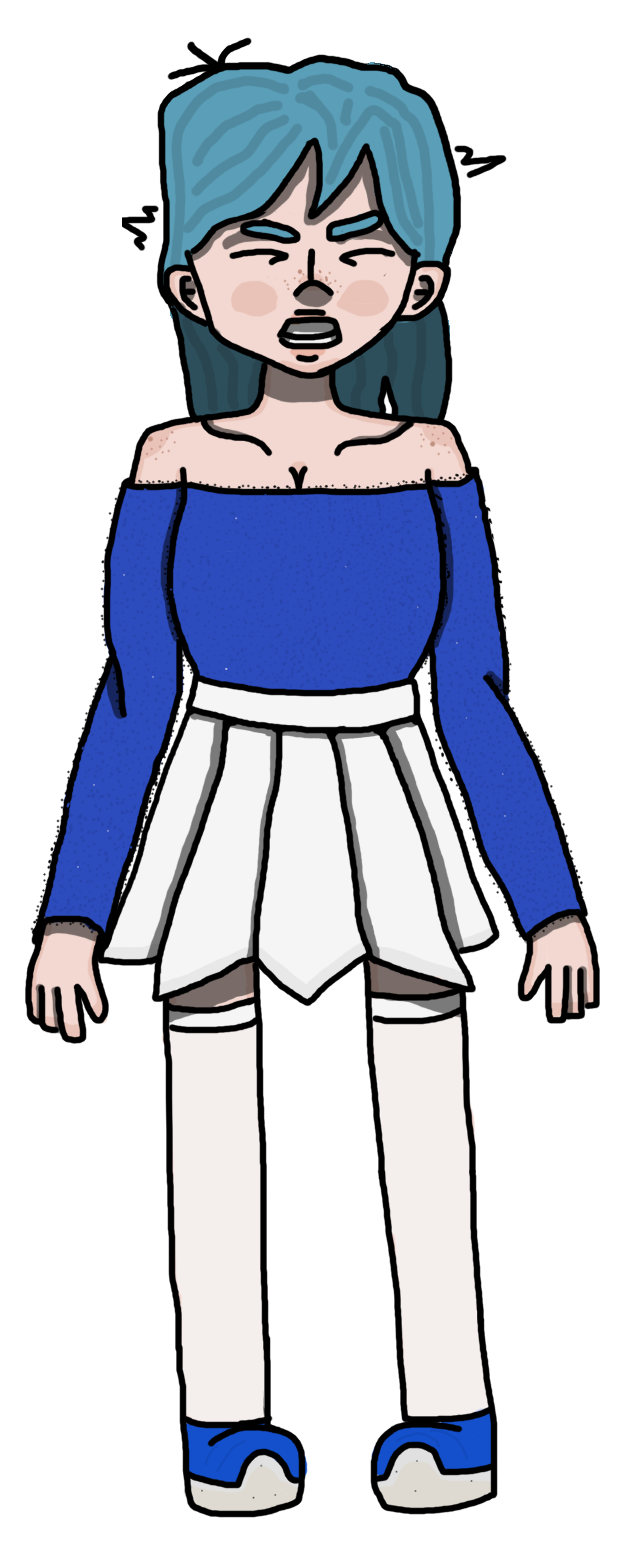
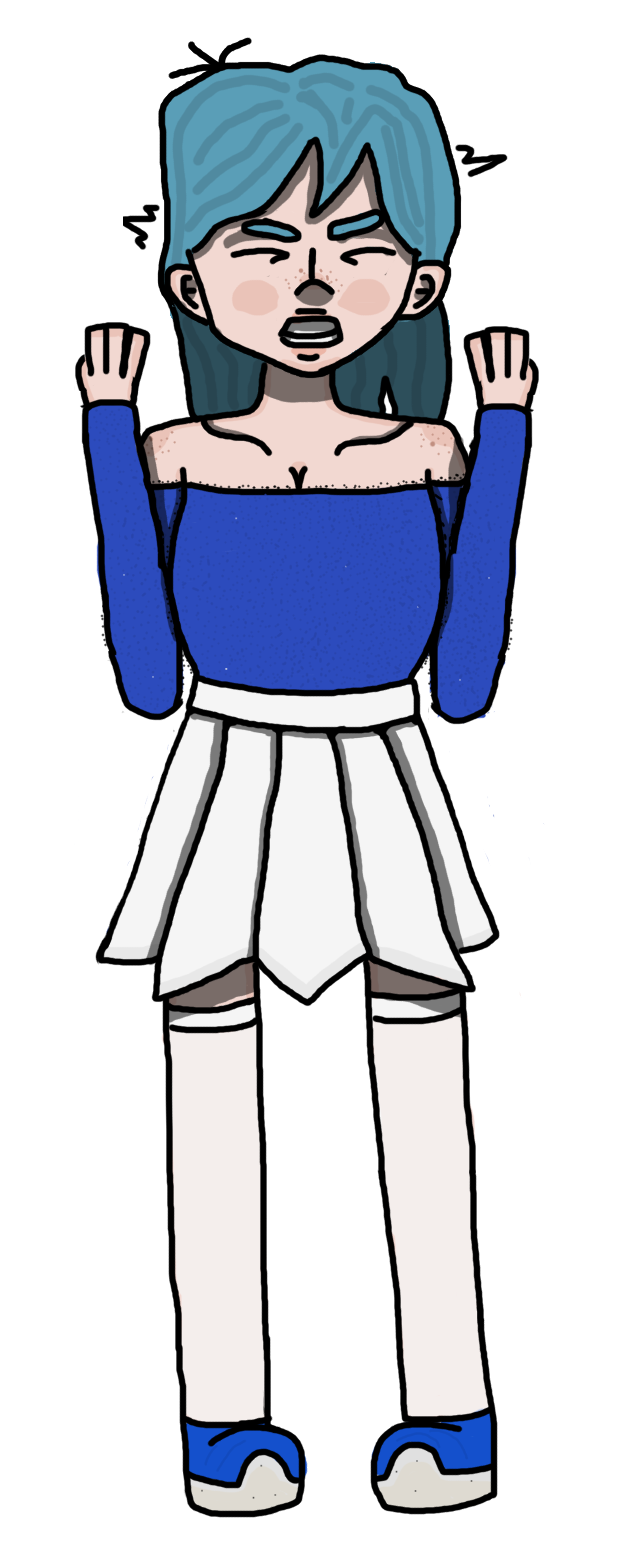
Got Amelia reactions implemented and squashed a bug that cause the tutorial to happen twice.

diff --git a/Assets/scripts/PlayerMovement.cs b/Assets/scripts/PlayerMovement.cs
@@ -24,6 +24,7 @@ public class PlayerMovement : MonoBehaviour
 
     private bool canMove = true;
     private bool cankey = false;
+    private bool tutorial = true;
 
     public GameObject Tutorialtxt;
     public GameObject Tutorialtxt2;
@@ -33,6 +34,7 @@ public class PlayerMovement : MonoBehaviour
     public GameObject Amelia1;
     public GameObject Amelia2;
     public GameObject Amelia3;
+    public GameObject Amelia4;
     public GameObject Panel;
     public float cannon_ball = 0;
     public float canR = 0;
@@ -59,39 +61,46 @@ public class PlayerMovement : MonoBehaviour
             Amelia2.SetActive(true);
         }
 
-        if (Input.GetButtonDown("Fire1") && canR == 0)
+        if(tutorial == true)
         {
-            Tutorialtxt2.SetActive(false);
-            Amelia2.SetActive(false);
+            if (Input.GetButtonDown("Fire1") && canR == 0)
+            {
+                Tutorialtxt2.SetActive(false);
+                Amelia2.SetActive(false);
 
-            Tutorialtxt3.SetActive(true);
-            Tutorialtxt3_1.SetActive(true);
-            Amelia3.SetActive(true);
-            canR = 1;
-        }
+                Tutorialtxt3.SetActive(true);
+                Tutorialtxt3_1.SetActive(true);
+                Amelia3.SetActive(true);
+                canR = 1;
+            }
 
-        if(Input.GetKey(KeyCode.R) && canR == 1)
-        {
-            cannon_ball = 1;
+            if(Input.GetKey(KeyCode.R) && canR == 1)
+            {
+                cannon_ball = 1;
+                
+            }
             
+            if (Input.GetButtonDown("Fire1") && cannon_ball == 1)
+            {
+                Tutorialtxt3.SetActive(false);
+                Tutorialtxt3_1.SetActive(false);
+                Amelia3.SetActive(false);
+
+                Tutorialtxt4.SetActive(true);
+                Amelia4.SetActive(true);
+                final_message = 1;
+
+            }
+
+            if(Input.GetKey(KeyCode.R) && final_message == 1)
+            {
+                Tutorialtxt4.SetActive(false);
+                Amelia4.SetActive(false);
+                Panel.SetActive(false);
+                tutorial = false;
+
+            }
         }
-        
-        if (Input.GetButtonDown("Fire1") && cannon_ball == 1)
-        {
-            Tutorialtxt3.SetActive(false);
-            Tutorialtxt3_1.SetActive(false);
-
-            Tutorialtxt4.SetActive(true);
-            final_message = 1;
-        }
-
-        if(Input.GetKey(KeyCode.R) && final_message == 1)
-        {
-            Tutorialtxt4.SetActive(false);
-            Panel.SetActive(false);
-
-        }
-
 
 
 
